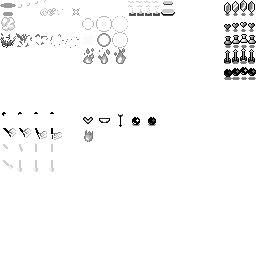
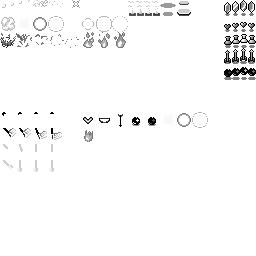
Fix Particles, Projectiles, and Pickups
they point to the UiSheet right now, which makes
absolutely no sense. fixed, they point to the
entities sheet now, and they actually display
somewhat properly. playtested, things are
looking much better now. whew.

diff --git a/GameClasses/Functions_GameObject.cs b/GameClasses/Functions_GameObject.cs
@@ -112,30 +112,9 @@ namespace DungeonRun
         public static void SetType(GameObject Obj, ObjType Type)
         {   //Obj.direction should be set prior to this method running - important
             Obj.type = Type;
-
-
-
-
-
-            //this is going to be changed quite a bit
-            //first, we need to be setting the sprite texture based on Obj.type
-            //second, we need to set the game obj anim list to the PROPER global animList reference
-            //which means we need to split the animList into INDIVIDUAL fields
-            //then set the obj's animList to that indivual field below
-
-            //this way we aren't creating animList garbage, but we
-            //also aren't dependent upon a list maintaining 1:1 with ObjType enum
-            //this also gives us more freedom to play with the sprites animList
-            //because we could easily set a different obj to the same animList, masqueradeing it as something else
-            //which might potentially reduce the number of animLists, since we dupe list values occasionally
-            //or we may keep them duped simply for readability (shutDoor = shutDoor anim, trapDoor = trapDoor anim)
-            //instead of (trapDoor = shutDoor.anim)
-
-
-
-
             
-            #region Assign Dungeon Sheet as Default Texture
+
+            #region Assign Level Sheet based on Level.Type Check
 
             if (Level.type == LevelType.Castle)
             { Obj.compSprite.texture = Assets.forestLevelSheet; }
@@ -147,11 +126,6 @@ namespace DungeonRun
             //vendor advertisements set their texture to the UiItems Sheet
 
             #endregion
-
-
-
-
-
 
 
 
@@ -1042,7 +1016,7 @@ namespace DungeonRun
             if (Obj.group == ObjGroup.Particle || Obj.group == ObjGroup.Projectile || Obj.group == ObjGroup.Pickup)
             {
                 Obj.compCollision.blocking = false; //these entities never block
-                Obj.compSprite.texture = Assets.uiItemsSheet; //all use entity sheet
+                Obj.compSprite.texture = Assets.entitiesSheet; //all use entity sheet
             } 
 
 
